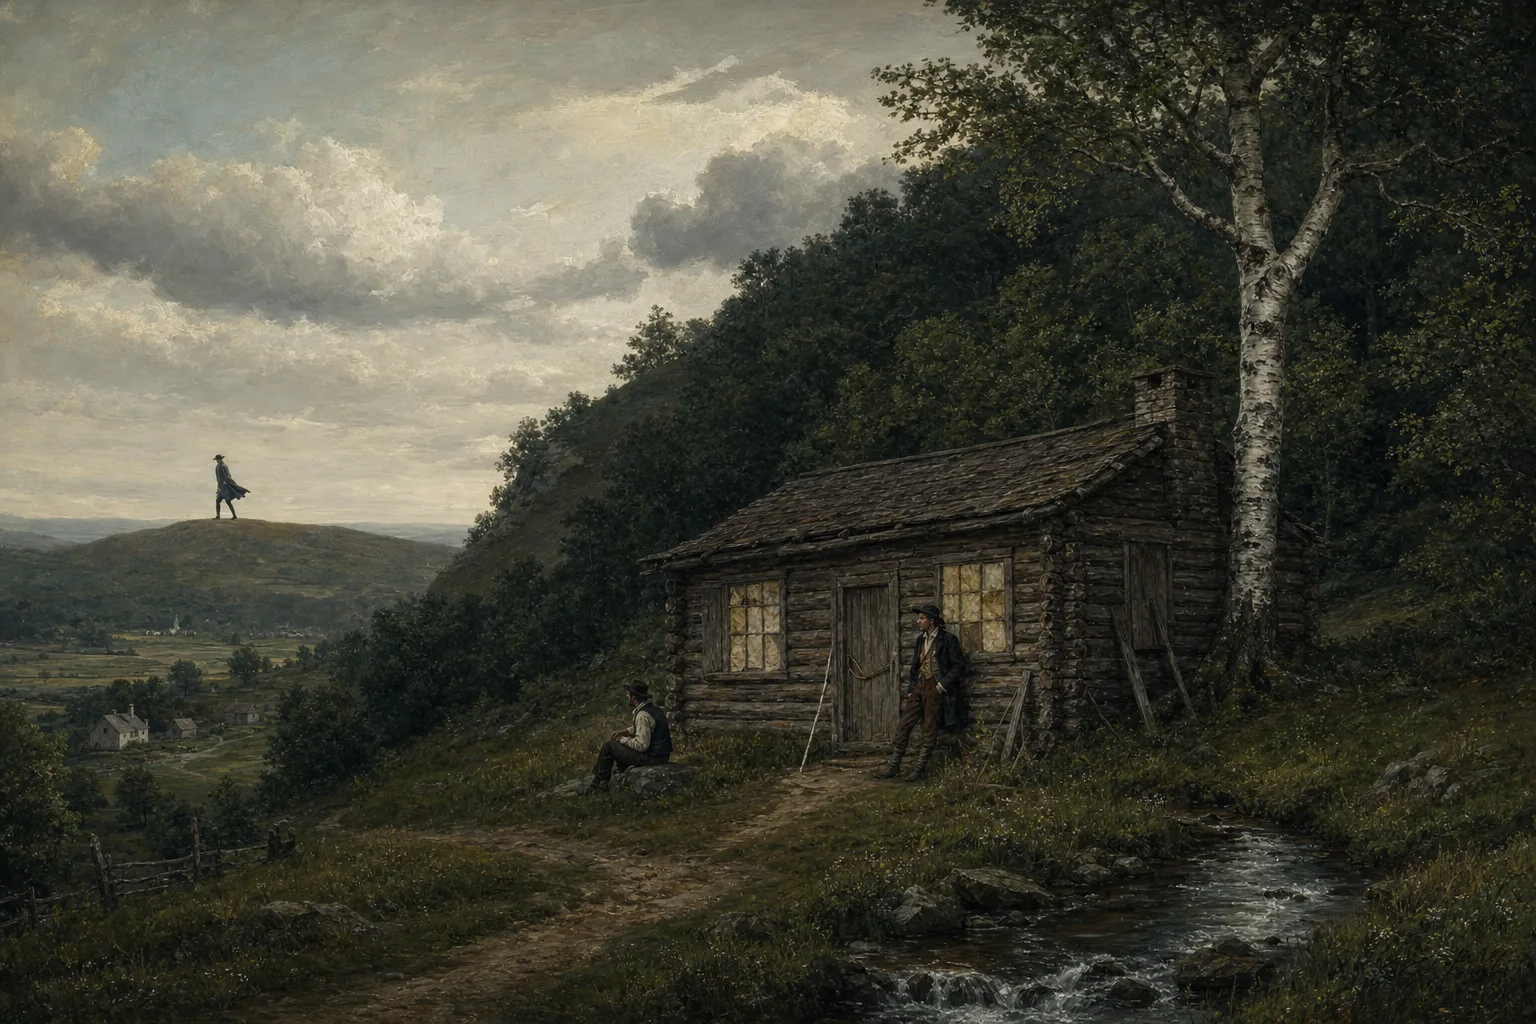
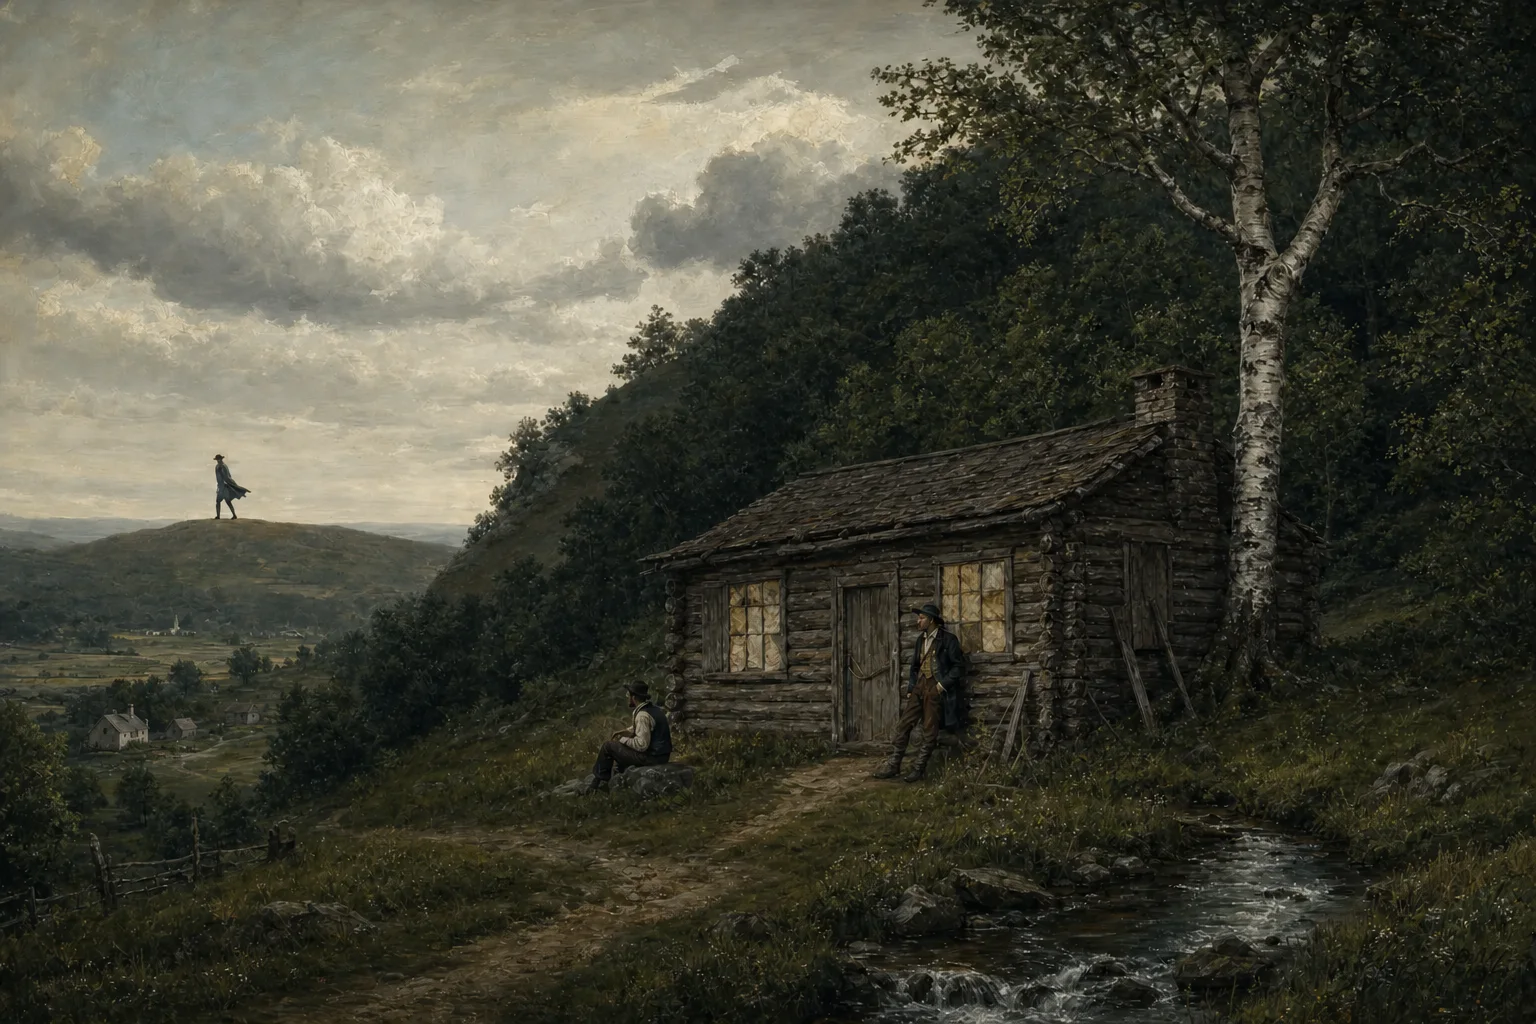
Plain markers for Room 5 lock 2 (Ichabod's daydream) and Room 6 lock 8 (the narrator's aside); the rod and the two women painted out

diff --git a/lib/world-schema.ts b/lib/world-schema.ts
@@ -96,7 +96,9 @@ const roomPuzzle=z.discriminatedUnion("type",[
 // their meeting point; puzzles (not the inner door's code lock) and the door (the inner door in chamber 1, the exit in
 // chamber 2) are places in the scene.
 const spotXY={x:z.number().min(0).max(100),y:z.number().min(0).max(100)};
-const sceneItem=z.object({id:z.string(),lock:z.number().int().min(1),label:z.string().min(1),alt:z.string().min(1),...spotXY,line:lineRef,subject:z.array(z.string().min(1)).min(1)});
+// marker: a plain spot with no painted object (teacher decision, 2026-11-21), for a lock whose reading has nothing
+// real to paint: a narrator's aside, a daydream, or a content-noted paragraph. It has no line or subject.
+const sceneItem=z.object({id:z.string(),lock:z.number().int().min(1),label:z.string().min(1),alt:z.string().min(1),...spotXY,line:lineRef.optional(),subject:z.array(z.string().min(1)).min(1).optional(),marker:z.boolean().optional()});
 const sceneBonus=z.object({id:z.string(),label:z.string().min(1),alt:z.string().min(1),...spotXY,line:lineRef,subject:z.array(z.string().min(1)).min(1),question:z.string().min(1),word:z.string().min(1)});
 const roomScene=z.object({chamber:z.union([z.literal(1),z.literal(2)]),art:z.string().min(1),alt:z.string().min(1),items:z.array(sceneItem).min(1),bonus:z.array(sceneBonus).default([]),
  witnesses:z.array(z.object({character:z.string(),...spotXY})).default([]),puzzles:z.array(z.object({id:z.string(),...spotXY})).default([]),door:z.object({label:z.string().min(1),...spotXY})});

diff --git a/tests/room-scene.test.ts b/tests/room-scene.test.ts
@@ -86,3 +86,13 @@ test("Rooms 2 to 6 have their two painted scenes (approved 2026-11-21: Rooms 2 a
   assert.match(edit((w) => { r3(w).items[4].label = "The clover by the brook"; }), /"clover" is a code-dial answer/);
   assert.match(edit((w) => { r3(w).bonus[0].alt = "Old tombstones and a patch of clover"; }), /"clover" is a code-dial answer/);
 });
+
+test("a plain marker paints nothing and rests on no line: Room 5's daydream and Room 6's narrator's aside (2026-11-21)", () => {
+  const item = (id: string, c: number, lock: number) => sceneOf(world, id, c)!.items.find((i) => i.lock === lock)!;
+  assert.deepEqual([item("a-rival-appears", 1, 2).marker, item("a-rival-appears", 1, 2).line, item("a-rival-appears", 1, 2).label], [true, undefined, "Ichabod's daydream"]);
+  assert.deepEqual([item("the-feud", 2, 8).marker, item("the-feud", 2, 8).line, item("the-feud", 2, 8).label], [true, undefined, "The narrator's aside"]);
+  const f2 = (w: WorldPack) => w.rooms!.find((r) => r.expedition === "the-feud")!.scenes![1].items.find((i) => i.lock === 8)!;
+  assert.match(edit((w) => { f2(w).line = { p: "p032", s: 0 }; f2(w).subject = ["women"]; }), /plain marker, so it rests on no line or subject/);
+  assert.match(edit((w) => { delete f2(w).marker; }), /needs its line and subject \(or is a plain marker\)/);
+  assert.doesNotMatch(sceneOf(world, "the-feud", 2)!.alt, /young women/);
+});

diff --git a/lib/room-scene.ts b/lib/room-scene.ts
@@ -89,8 +89,10 @@ export function sceneProblems(world: WorldPack, passages: SourcePassage[]): stri
     for (const it of sc.items) {
       const k = it.lock - 1; spot(`item ${it.id}`, it.x, it.y);
       if (k < span.from || k > span.to) { out.push(`${at}: item ${it.id} is for lock ${it.lock}, outside chamber ${sc.chamber}`); continue; }
-      if (!inChunk(k, it.line)) out.push(`${at}: item ${it.id}'s line ${refKey(it.line)} isn't in lock ${it.lock}'s reading`);
-      literal(`item ${it.id}`, it.line, it.subject, k);
+      // A plain marker paints nothing and rests on no line; every other item is a literal thing in its lock's reading.
+      if (it.marker) { if (it.line || it.subject) out.push(`${at}: item ${it.id} is a plain marker, so it rests on no line or subject`); }
+      else if (!it.line || !it.subject) out.push(`${at}: item ${it.id} needs its line and subject (or is a plain marker)`);
+      else { if (!inChunk(k, it.line)) out.push(`${at}: item ${it.id}'s line ${refKey(it.line)} isn't in lock ${it.lock}'s reading`); literal(`item ${it.id}`, it.line, it.subject, k); }
       if ([it.label, it.alt].some((t) => /—/.test(t))) out.push(`${at}: item ${it.id}: no em dashes`);
     }
     for (const b of sc.bonus) {

diff --git a/tests/room-order.test.ts b/tests/room-order.test.ts
@@ -27,7 +27,7 @@ test("every chamber of every room has a scene: its painting, or a plain scene of
   assert.deepEqual(s1.puzzles.map((p) => p.id), ["schoolhouse-at-midday"]); assert.deepEqual(s2.puzzles.map((p) => p.id), ["farmhouse-room"]);
   assert.equal(s1.items[0].label[0], s1.items[0].label[0].toUpperCase(), "named by its paragraph topic, capitalized");
   // A spot on a content-noted paragraph has no topic, so it is just "Lock N" (Room 7 reaches ¶34).
-  const r7 = roomOf(world, "the-invitation")!, noted = plainSceneOf(world, r7, 1).items.filter((i) => i.line.p === "p034");
+  const r7 = roomOf(world, "the-invitation")!, noted = plainSceneOf(world, r7, 1).items.filter((i) => i.line?.p === "p034");
   assert.ok(noted.length > 0); for (const i of noted) assert.equal(i.label, `Lock ${i.lock}`);
 });
 
